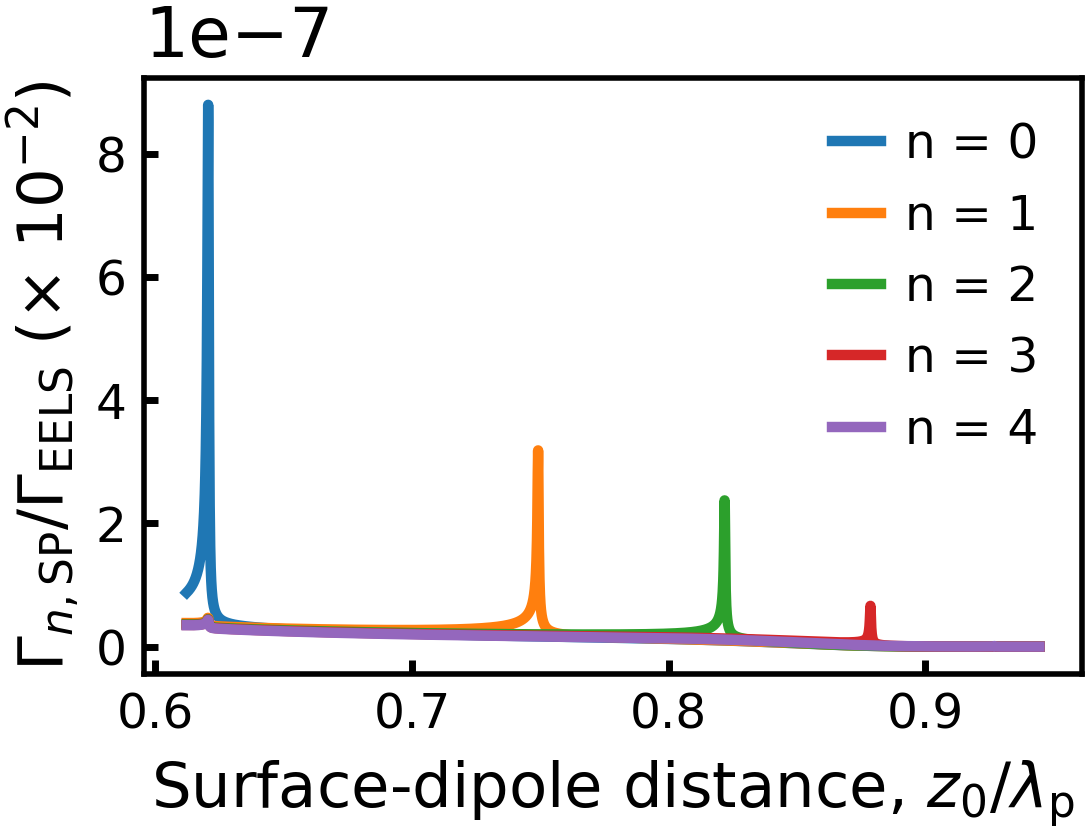
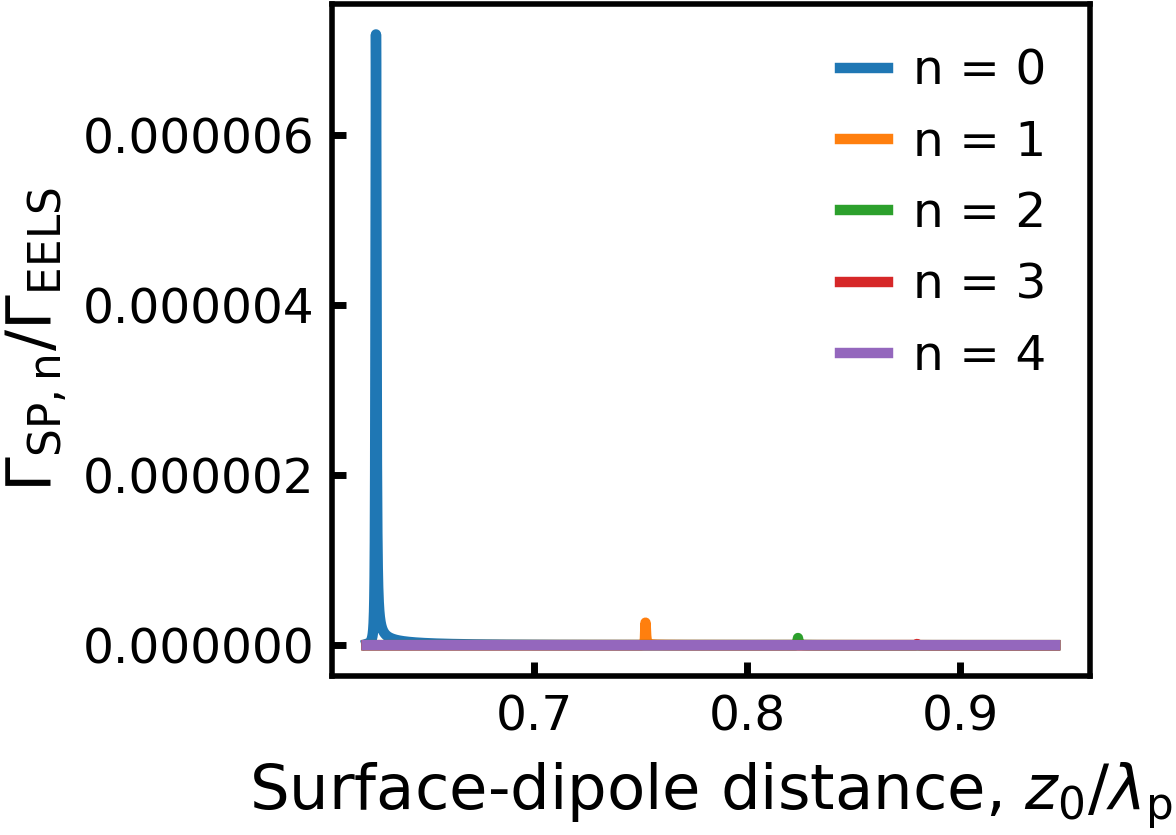
update from icfo dell

Changed region(s): [[0.0, 0.0, 1.0, 0.8739], [0.1215, 0.9052, 1.0, 0.9988]]

diff --git a/graphene/potential_field/infinite_dipoles/potential_and_electric_field_with_dipole_moment_formula/decay_rate_second_try/plot_decay_rate_theta_n_opt_zp_fix_zp.py b/graphene/potential_field/infinite_dipoles/potential_and_electric_field_with_dipole_moment_formula/decay_rate_second_try/plot_decay_rate_theta_n_opt_zp_fix_zp.py
@@ -30,7 +30,7 @@ if not os.path.exists(path_save):
 err = 'decay_rate_theta_n.py no se encuentra en ' + path_basic
 try:
     sys.path.insert(1, path_basic)
-    from decay_rate_theta_n import decay_rate_theta_inf_dipoles_ana_res,decay_rate_theta_inf_dipoles_ana_res_div_gamma0_v3
+    from decay_rate_theta_n import decay_rate_theta_inf_dipoles_ana_res_div_gamma0_v3, decay_rate_theta_inf_dipoles_ana_res_div_gamma0_v4
 except ModuleNotFoundError:
     print(err)
 
@@ -54,7 +54,7 @@ print('Definir parametros del problema')
 
 
 b = - 0.01
-list_n = [0,1,2,3,4,5,6,7,8,9,10,11,12] 
+list_n = [0,1,2,3,4] 
 
 int_v = 20
 int_v = 10
@@ -71,8 +71,8 @@ tabla = np.transpose(tabla)
 [listx,listy,listz] = tabla ## energy and zp 
 
 ind = 18
-ind = -20
-print(listx[ind])
+ind = -1
+#print(listx[ind])
 zp_nano = listy[ind]
 
 omegac0_1 = np.max(listx)*1e-3/(c*hb)
@@ -86,12 +86,12 @@ a_min = np.real(lambda_SP_1)*Nmax/(int_v - 1)
 a_max = np.real(lambda_SP_2)*Nmax/(int_v + 1)
 
 a = np.mean([a_min,a_max]) ##  micrones 
-
-a = 1.5
-a = 300
+a = 5
+a = 17
+#a = 300
 #a = 500*1e-3
 #a = 5031*1e-3
-print(a)
+#print(a)
 
 
 a_nm = a*1e3
@@ -132,8 +132,9 @@ elif a == 150:
     lim1,lim2 = 16,-75
     listx_2 = np.linspace(listx[lim1], listx[lim2], N)
 else:
-    lim1,lim2 = 17,-78
+    lim1,lim2 = 17,-65
     listx_2 = np.linspace(listx[lim1], listx[lim2], N)
+    
 listy_2 = f1(listx_2)
 listz_2 = f2(listx_2)  
 
@@ -158,12 +159,12 @@ title =  title2 + '\n' +  title3  + title4
 #%%
 
 
-def function_real_ana(energy0_meV,Nmax):
+def function_real_ana(energy0_meV,zp_nano,Nmax):
                 
     omegac0 = energy0_meV*1e-3/(c*hb)  
     zp = zp_nano*1e-3
          
-    rta = decay_rate_theta_inf_dipoles_ana_res_div_gamma0_v3(omegac0,epsi1,epsi2,hbmu,hbgama,int_v,zp,a,b,Nmax)
+    rta = decay_rate_theta_inf_dipoles_ana_res_div_gamma0_v4(omegac0,epsi1,epsi2,hbmu,hbgama,int_v,zp,a,b,Nmax)
 
     return rta
 
@@ -200,7 +201,8 @@ def graph(title,labelx,labely,tamfig,tamtitle,tamletra,tamnum,labelpadx,labelpad
 #%%
 from scipy.signal import find_peaks
 maxis_zp_lambda_p = []
-  
+values_maxis = []  
+values_maxis_tot = []
 #    if theta_degree != 0:     
 #        listx_2 = listx
 #        listy_2 = listy
@@ -214,7 +216,7 @@ for n in list_n:
 #        zp = listy_2[ind]
         x =  listx_2[ind]
 #        x = 43 #meV
-        list_y_re.append(function_real_ana(x,n))
+        list_y_re.append(function_real_ana(x,zp_nano,n))
         
     maxi, _ = find_peaks(list_y_re, height=0)
     if len(maxi)>1:
@@ -223,13 +225,21 @@ for n in list_n:
             list_maximos.append(list_y_re[maxis])
         index_max = np.argmax(list_maximos)
         maxis_zp_lambda_p.append(listx_2[maxi[int(index_max)]])
+        values_maxis.append(np.max(list_maximos))
+        values_maxis_tot.append(np.sum(list_maximos))
     else:
-        print(int(maxi))
+#        print(int(maxi))
         maxis_zp_lambda_p.append(listx_2[int(maxi)])
-    print(n,maxis_zp_lambda_p)
+        values_maxis.append(list_y_re[int(maxi)])
+        values_maxis_tot.append(list_y_re[int(maxi)])
+        
+#    print(n,maxis_zp_lambda_p,values_maxis)
 #    list_y_re = np.array(list_y_re)/maxi
    
-    
+tot = np.sum(values_maxis)
+
+print('a', a_nm, 'nm', 'zp:',zp_nano,'nm', 'maximo:', np.abs(tot))
+
 #%%
 listx_3 = []
 for ind in range(len(listy_2)):
@@ -248,9 +258,9 @@ for n in list_n:
 #        zp = listy_2[ind]
         x =  listx_2[ind]
 #        x = 43 #meV
-        list_y_re.append(function_real_ana(x,n))
+        list_y_re.append(function_real_ana(x,zp_nano,n))
             
-    plt.plot(listx_2,np.array(list_y_re)*1e2,'-',ms = ms, label = 'n = %i'%(n))
+    plt.plot(listx_2,np.array(list_y_re),'-',ms = ms, label = 'n = %i'%(n))
     
 plt.legend(loc = 'best',markerscale=mk,fontsize=tamlegend,frameon=False,handletextpad=hp, handlelength=1)
 #    plt.grid(1)
@@ -266,7 +276,7 @@ for n in list_n:
 #        zp = listy_2[ind]
         x =  listx_2[ind]
 #        x = 43 #meV
-        list_y_re.append(function_real_ana(x,n))
+        list_y_re.append(function_real_ana(x,zp_nano,n))
             
     listx_3 = np.array(listy_2)/np.array(listz_2)
     plt.plot(listx_4,np.array(list_y_re),'-',ms = ms, label = 'n = %i'%(n))
@@ -278,7 +288,47 @@ plt.tight_layout()
 #plt.yscale('log')
 os.chdir(path_save)
 #plt.savefig('decay_rate_fix_zp_' + labelp + '.png', format='png',bbox_inches='tight',pad_inches = 0.008,dpi = dpi)
-plt.savefig('decay_rate_fix_zp_cleo_' + labelp + '.png', format='png',bbox_inches='tight',pad_inches = 0.008,dpi = dpi)
+plt.savefig('decay_rate_fix_zp_' + labelp + '.png', format='png',bbox_inches='tight',pad_inches = 0.008,dpi = dpi)
 
 #%%
+
+
+energy_meV = 45
+
+graph(title,r'$z_{\rm p}$ [nm]',labely ,tamfig,tamtitle,tamletra,tamnum,labelpadx,labelpady,pad)
+for n in list_n:
+    
+    list_y_re = []
+
+
+    for ind in range(len(listx_2)):
+        zp_nano = listy_2[ind]
+#        x =  listx_2[ind]
+#        x = 43 #meV
+        list_y_re.append(function_real_ana(energy_meV,zp_nano,n))
+            
+
+    plt.plot(listy_2,np.array(list_y_re),'-',ms = ms, label = 'n = %i'%(n))
+    
+plt.legend(loc = 'best',markerscale=mk,fontsize=tamlegend,frameon=False,handletextpad=hp, handlelength=1)
+#    plt.grid(1)
+plt.tight_layout()
+
+#plt.yscale('log')
+os.chdir(path_save)
+#plt.savefig('decay_rate_fix_zp_' + labelp + '.png', format='png',bbox_inches='tight',pad_inches = 0.008,dpi = dpi)
+plt.savefig('decay_rate_fix_energy_' + labelp + '.png', format='png',bbox_inches='tight',pad_inches = 0.008,dpi = dpi)
+
+#%%
+
+
+
+
+
+
+
+
+
+
+
 

diff --git a/graphene/potential_field/infinite_dipoles/potential_and_electric_field_with_dipole_moment_formula/decay_rate_second_try/decay_rate_theta_n.py b/graphene/potential_field/infinite_dipoles/potential_and_electric_field_with_dipole_moment_formula/decay_rate_second_try/decay_rate_theta_n.py
@@ -557,10 +557,7 @@ def decay_rate_theta_inf_dipoles_ana_res_div_gamma0_v3(omegac,epsi1,epsi2,hbmu,h
         
     return rta
 
-
-
-
-def decay_rate_theta_inf_dipoles_ana_res_div_gamma0_angle(omegac,epsi1,epsi2,hbmu,hbgama,int_v,zp,a,b,n):     
+def decay_rate_theta_inf_dipoles_ana_res_div_gamma0_v4(omegac,epsi1,epsi2,hbmu,hbgama,int_v,zp,a,b,n):     
     """    
     Parameters
     ----------
@@ -596,61 +593,49 @@ def decay_rate_theta_inf_dipoles_ana_res_div_gamma0_angle(omegac,epsi1,epsi2,hbm
     kp = alfa_p*k1
     
     
-    px,py,pz  = dipole_moment_anav2_res(omegac,epsi1,epsi2,hbmu,hbgama,int_v,b,zp)  
+    px,py,pz  = dipole_moment_anav2_for_decay_rate_res(omegac,epsi1,epsi2,hbmu,hbgama,int_v,b,zp)  
 #    list_dipoles = np.linspace(-Nmax,Nmax,2*Nmax + 1)
 #            
-  
-#    expo_kx = np.exp(1j*kx*x)
-#
-    ### cte que falta en dip moment : e/(2*np.pi*v)
-#    charge_e_cgs = 1.602176634*1e-20
-#    
-#    hbar_cgs = 1.054571817*1e-27
+    kx = omegac*int_v + 2*np.pi*n/a
     
-    v = c/int_v
-    cte_dip = 1/(2*np.pi*v)
-    
-    px,py,pz = px*cte_dip, py*cte_dip, pz*cte_dip
-    
+    delta_n = 2*np.pi/a
+#    print(delta_n/kx)
 
-    def theta(E_meV,a):
+    den = np.sqrt(kp**2 - kx**2)
     
-        E = E_meV*1e-3  
-        cond = 4*np.pi*alfac*sigma_DL(E,hbmu,hbgama)
-        alfa_p = 1j*(epsi1 + epsi2)/(cond)
-        omegac = E/(hb*c)
-        kp = alfa_p*omegac    
-        
-        theta0 = np.arccos((omegac*int_v + 2*np.pi*n/a)/np.real(kp))
-    #    print(theta0)
-        return theta0*180/np.pi
-
-    kx = omegac*int_v + 2*np.pi*n/a   
-    den = np.sqrt(kp**2 - kx**2)  ### ky 
-    
-    Emev = E*1e3
-    den = kp*np.sin(theta(Emev,a))
-    kx = kp*np.cos(theta(Emev,a))
-    
+    kp_2 = np.sqrt(kp**2)
+    term_kp = 1 + kp/kp_2
+    term_kp_2 = kp_2 + kp
    # return np.imag(final_2*cte*kp*np.cos(theta))
-    phi_n = np.exp(-2*kp*zp)*Rp*kp*(px*kx/den + py + 1j*pz*kp/den )/(2*np.pi*a)
+    phi_n = -np.exp(-2*kp_2*zp)*Rp*kp*(px*kx*term_kp/den + py*term_kp + 1j*pz*term_kp_2/den )/(4*np.pi*a)
     
-    rta = a*np.abs(phi_n)**2/(2*np.pi*Rp)
+    cte_formula = 4*np.pi*a/Rp
+#    cte_formula = 12*np.pi*a/(Rp) ## hay un extra 1/(2pi) en la formula de phi. necesario para silver 
+#      
+#    cte_formula = a/(12*Rp) ## hay un extra 1/(2pi) en la formula de phi
     
-#    cte_aux = cte_aux*1e9 ### cambiar unidades
+#    cte_formula = a*np.pi/Rp  ## hay un extra 1/(2pi) en la formula de phi. necesario para grafeno  
+#
 
-    gamma = np.sqrt(1 - (int_v)**(-2))**(-1)
-    alpha = -3*epsi1/(4*1j*k1**3)
-
+    gamma = (1 - (int_v**(-2)) )**(-1/2)
     arg = np.abs(b)*omegac*int_v/gamma
     K1 = special.kn(1,arg)
     K0 = special.kn(0,arg)
-    
-#    print(K1)
-   
 
-    factor_gamma0 = (2*omegac*int_v/(v*gamma))**2
-    gamma0 = factor_gamma0*(K0**2/gamma**2 + K1**2)*np.imag(alpha)/np.pi  ## decay rate de 1 dipolo # pero sin el "e/hbar" se cancela con el momento dipolar^2
     
-    return rta/(gamma0*hb)
+    factor_K = ( (K0/gamma)**2 + K1**2)/(gamma**2)  ## decay rate de 1 dipolo # pero sin el "e/hbar" se cancela con el momento dipolar^2
+    seno_theta_n = den/kp
+#    print(seno_theta_n)
+    
+#    px_dir,py_dir,pz_dir = dipole_moment_anav2_for_decay_rate_resonance_dir(omegac,int_v,b,zp)        
+#    denominador = np.abs(px_dir)**2 +  np.abs(py_dir)**2 +  np.abs(pz_dir)**2
+
+#    cte_extra = (a*omegac)**4
+    extra_cte_adimensional = a*omegac ## para poder comparar con diferentes materiales y que no dependa del periodo "a" 
+   
+    k_prima = omegac*np.sqrt(epsi1)
+        
+    rta = (np.abs(phi_n)**2)*cte_formula*k_prima*(int_v**(-2))/(factor_K*seno_theta_n)
+        
+    return rta
 
